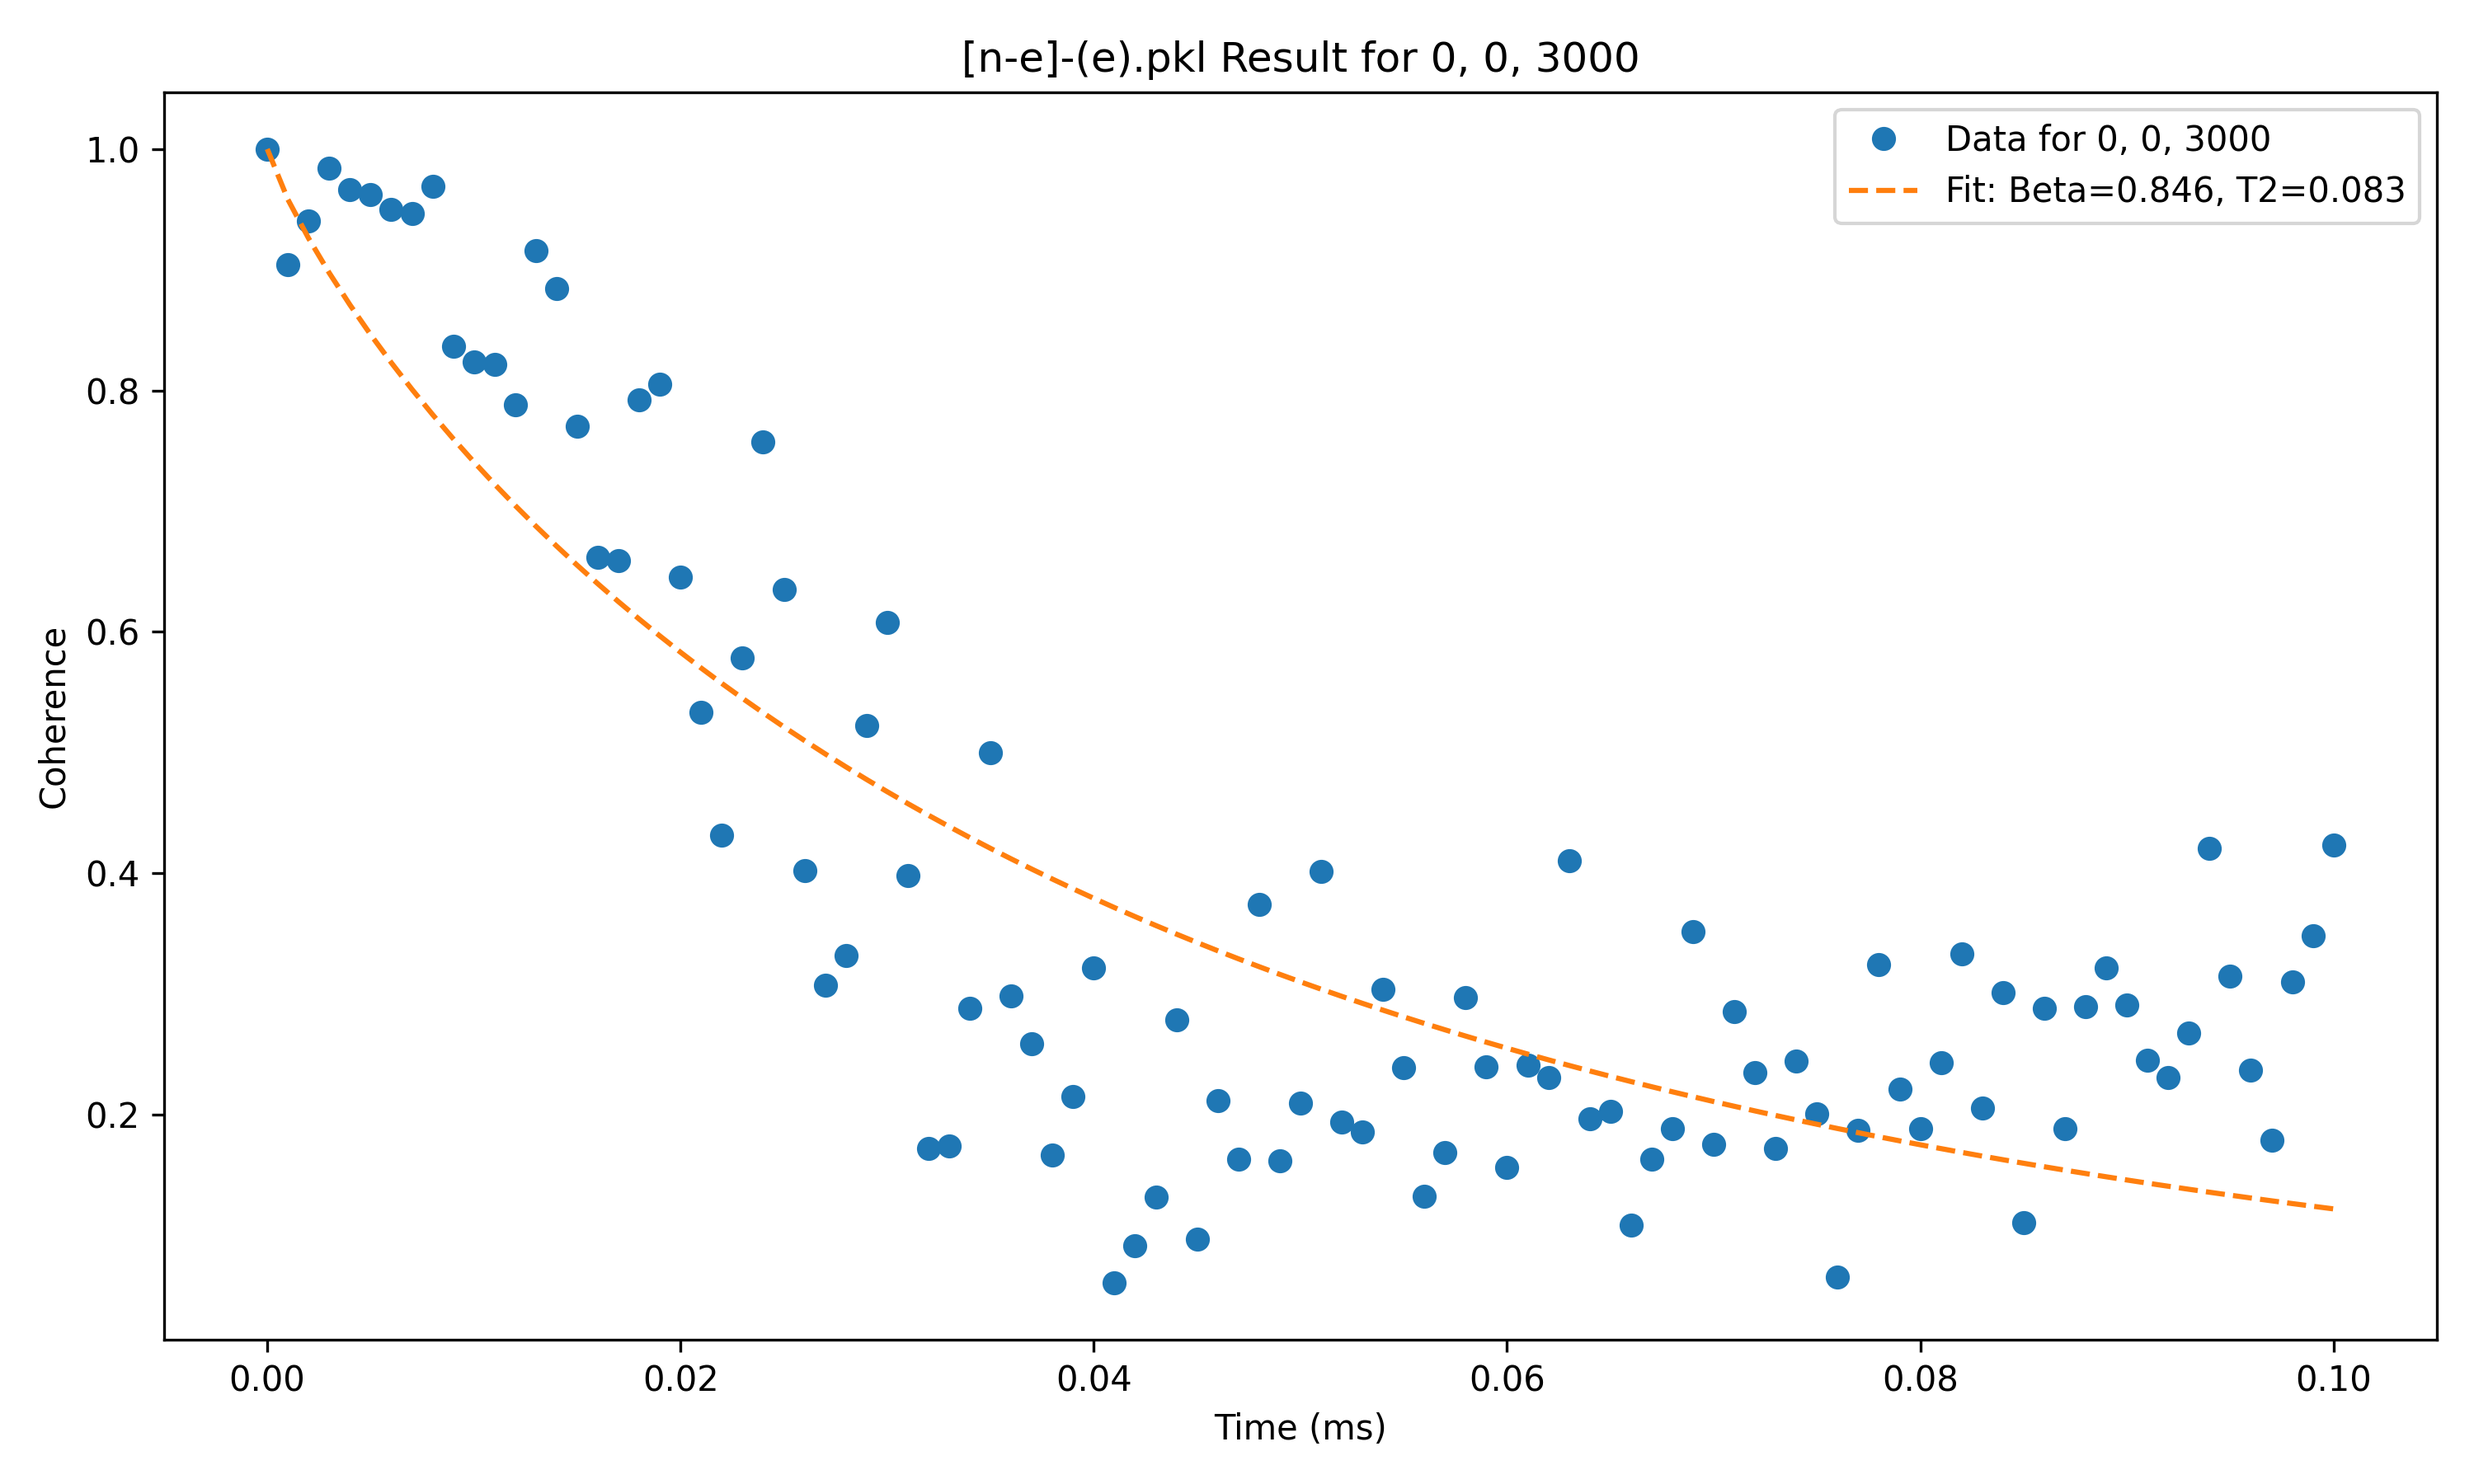
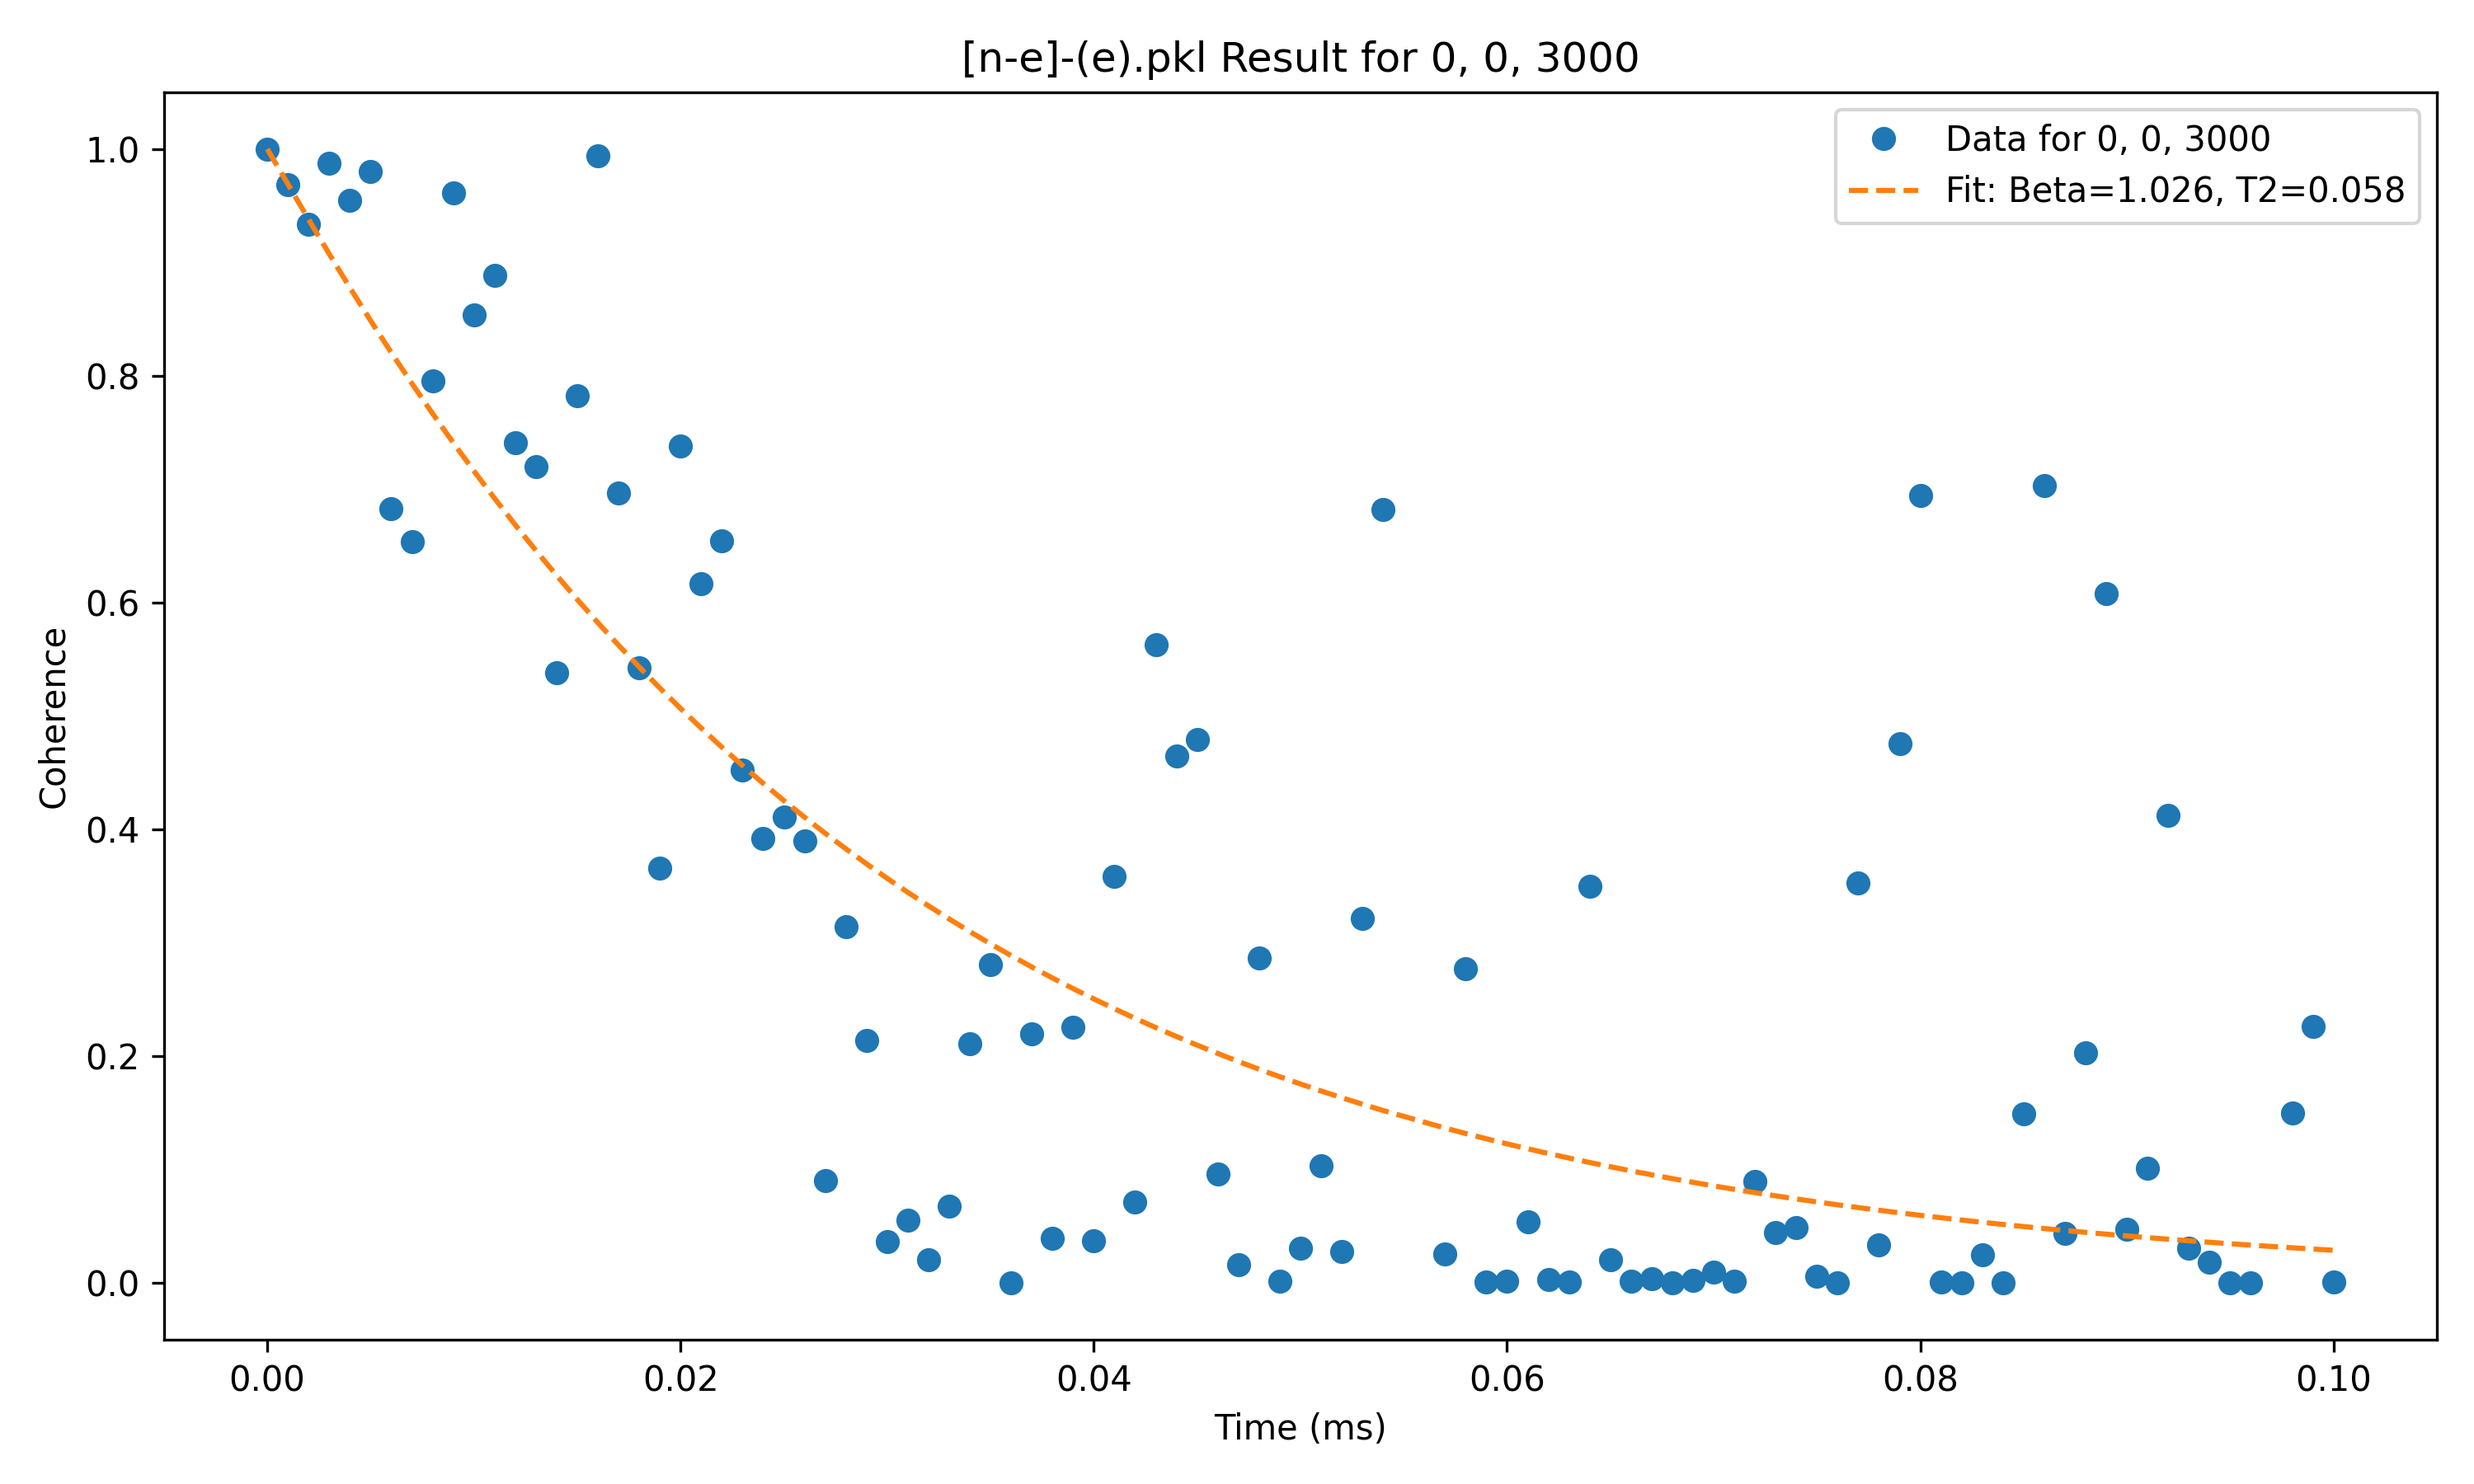
T2=58us!!!! Added more pulses that affected the bath. Gonna check for different B strengths now.

diff --git a/VOTPP folder/VOTPP_[n-e]-(e).py b/VOTPP folder/VOTPP_[n-e]-(e).py
@@ -159,7 +159,8 @@ pulse_90 = pc.Pulse(axis='x', angle=2*np.pi/3, delay=None)  # 90° pulse around 
 
 # Define the sequence
 hahn_echo_sequence = pc.Sequence([pulse_90, pulse_90,
-                                  {'axis': 'x', 'angle': 2*np.pi/3, 'delay': None, 'bath_names': '51V'}
+                                  {'axis': 'x', 'angle': 2*np.pi/3, 'delay': None, 'bath_names': '51V'}, 
+                                  {'axis': 'x', 'angle': 2*np.pi/3, 'delay': None, 'bath_names': '51V'}, 
                                   ])
 
 # # Define an array for delays with the same length as timespace_absolute
